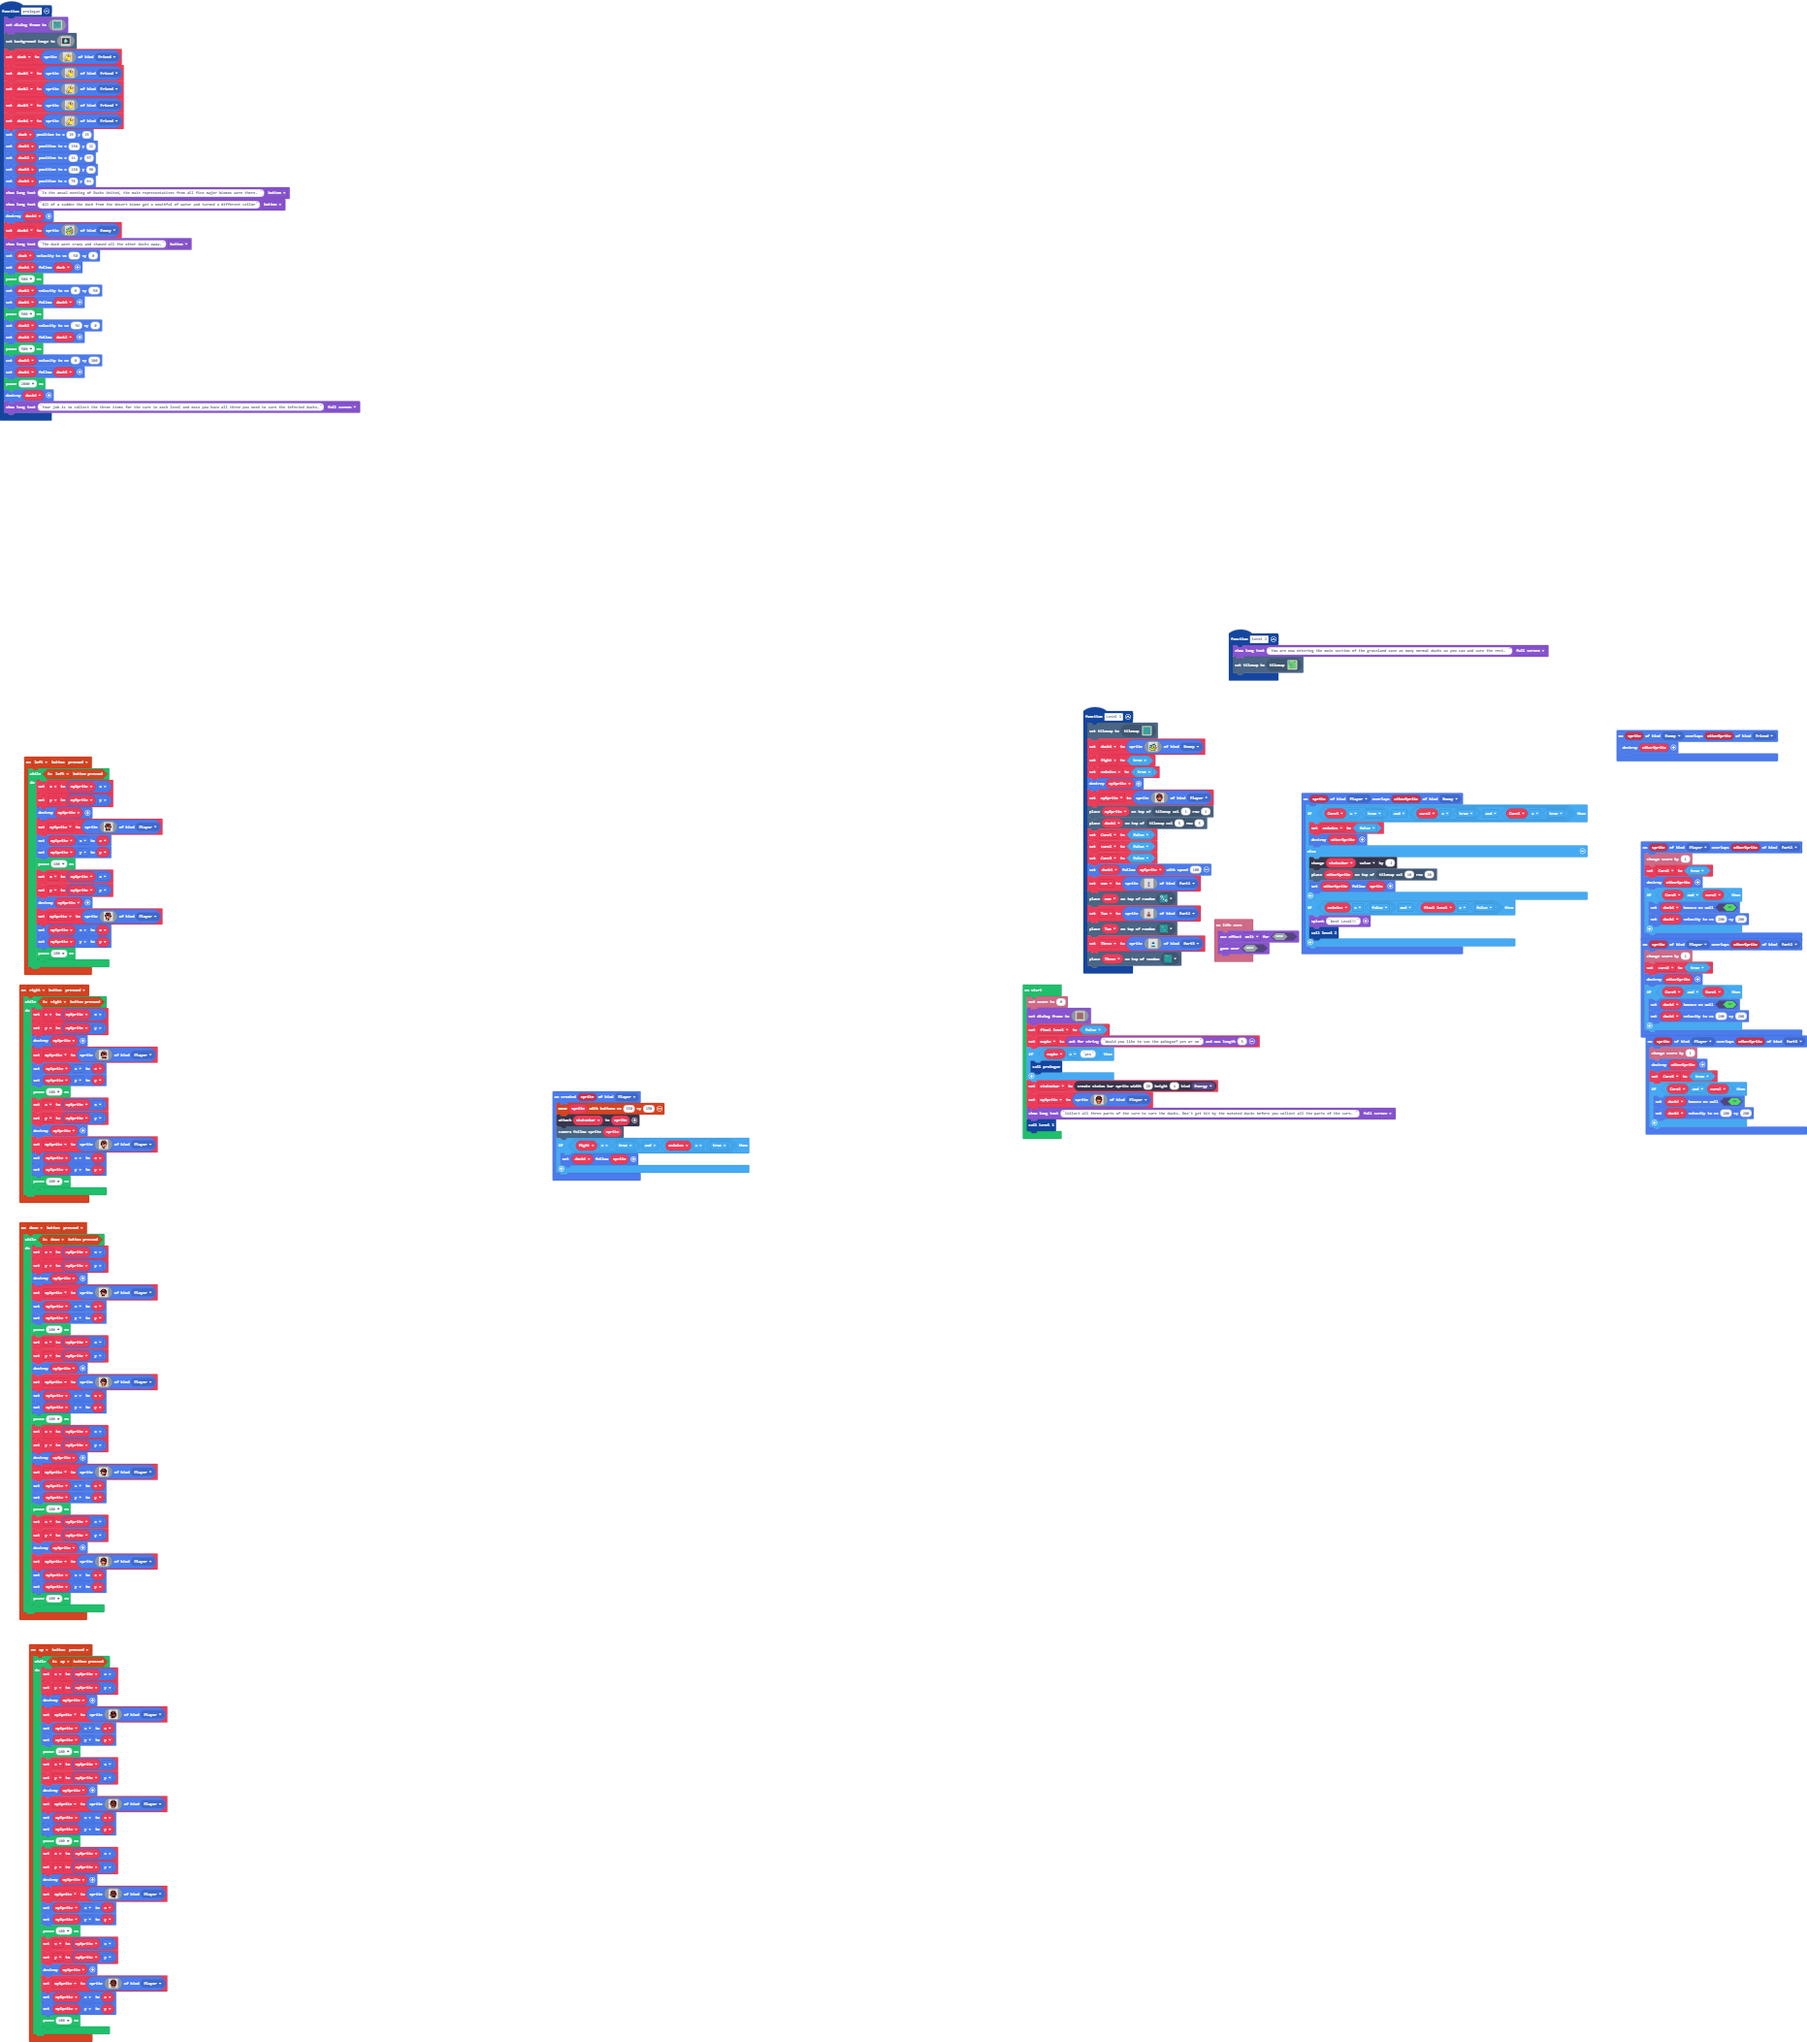
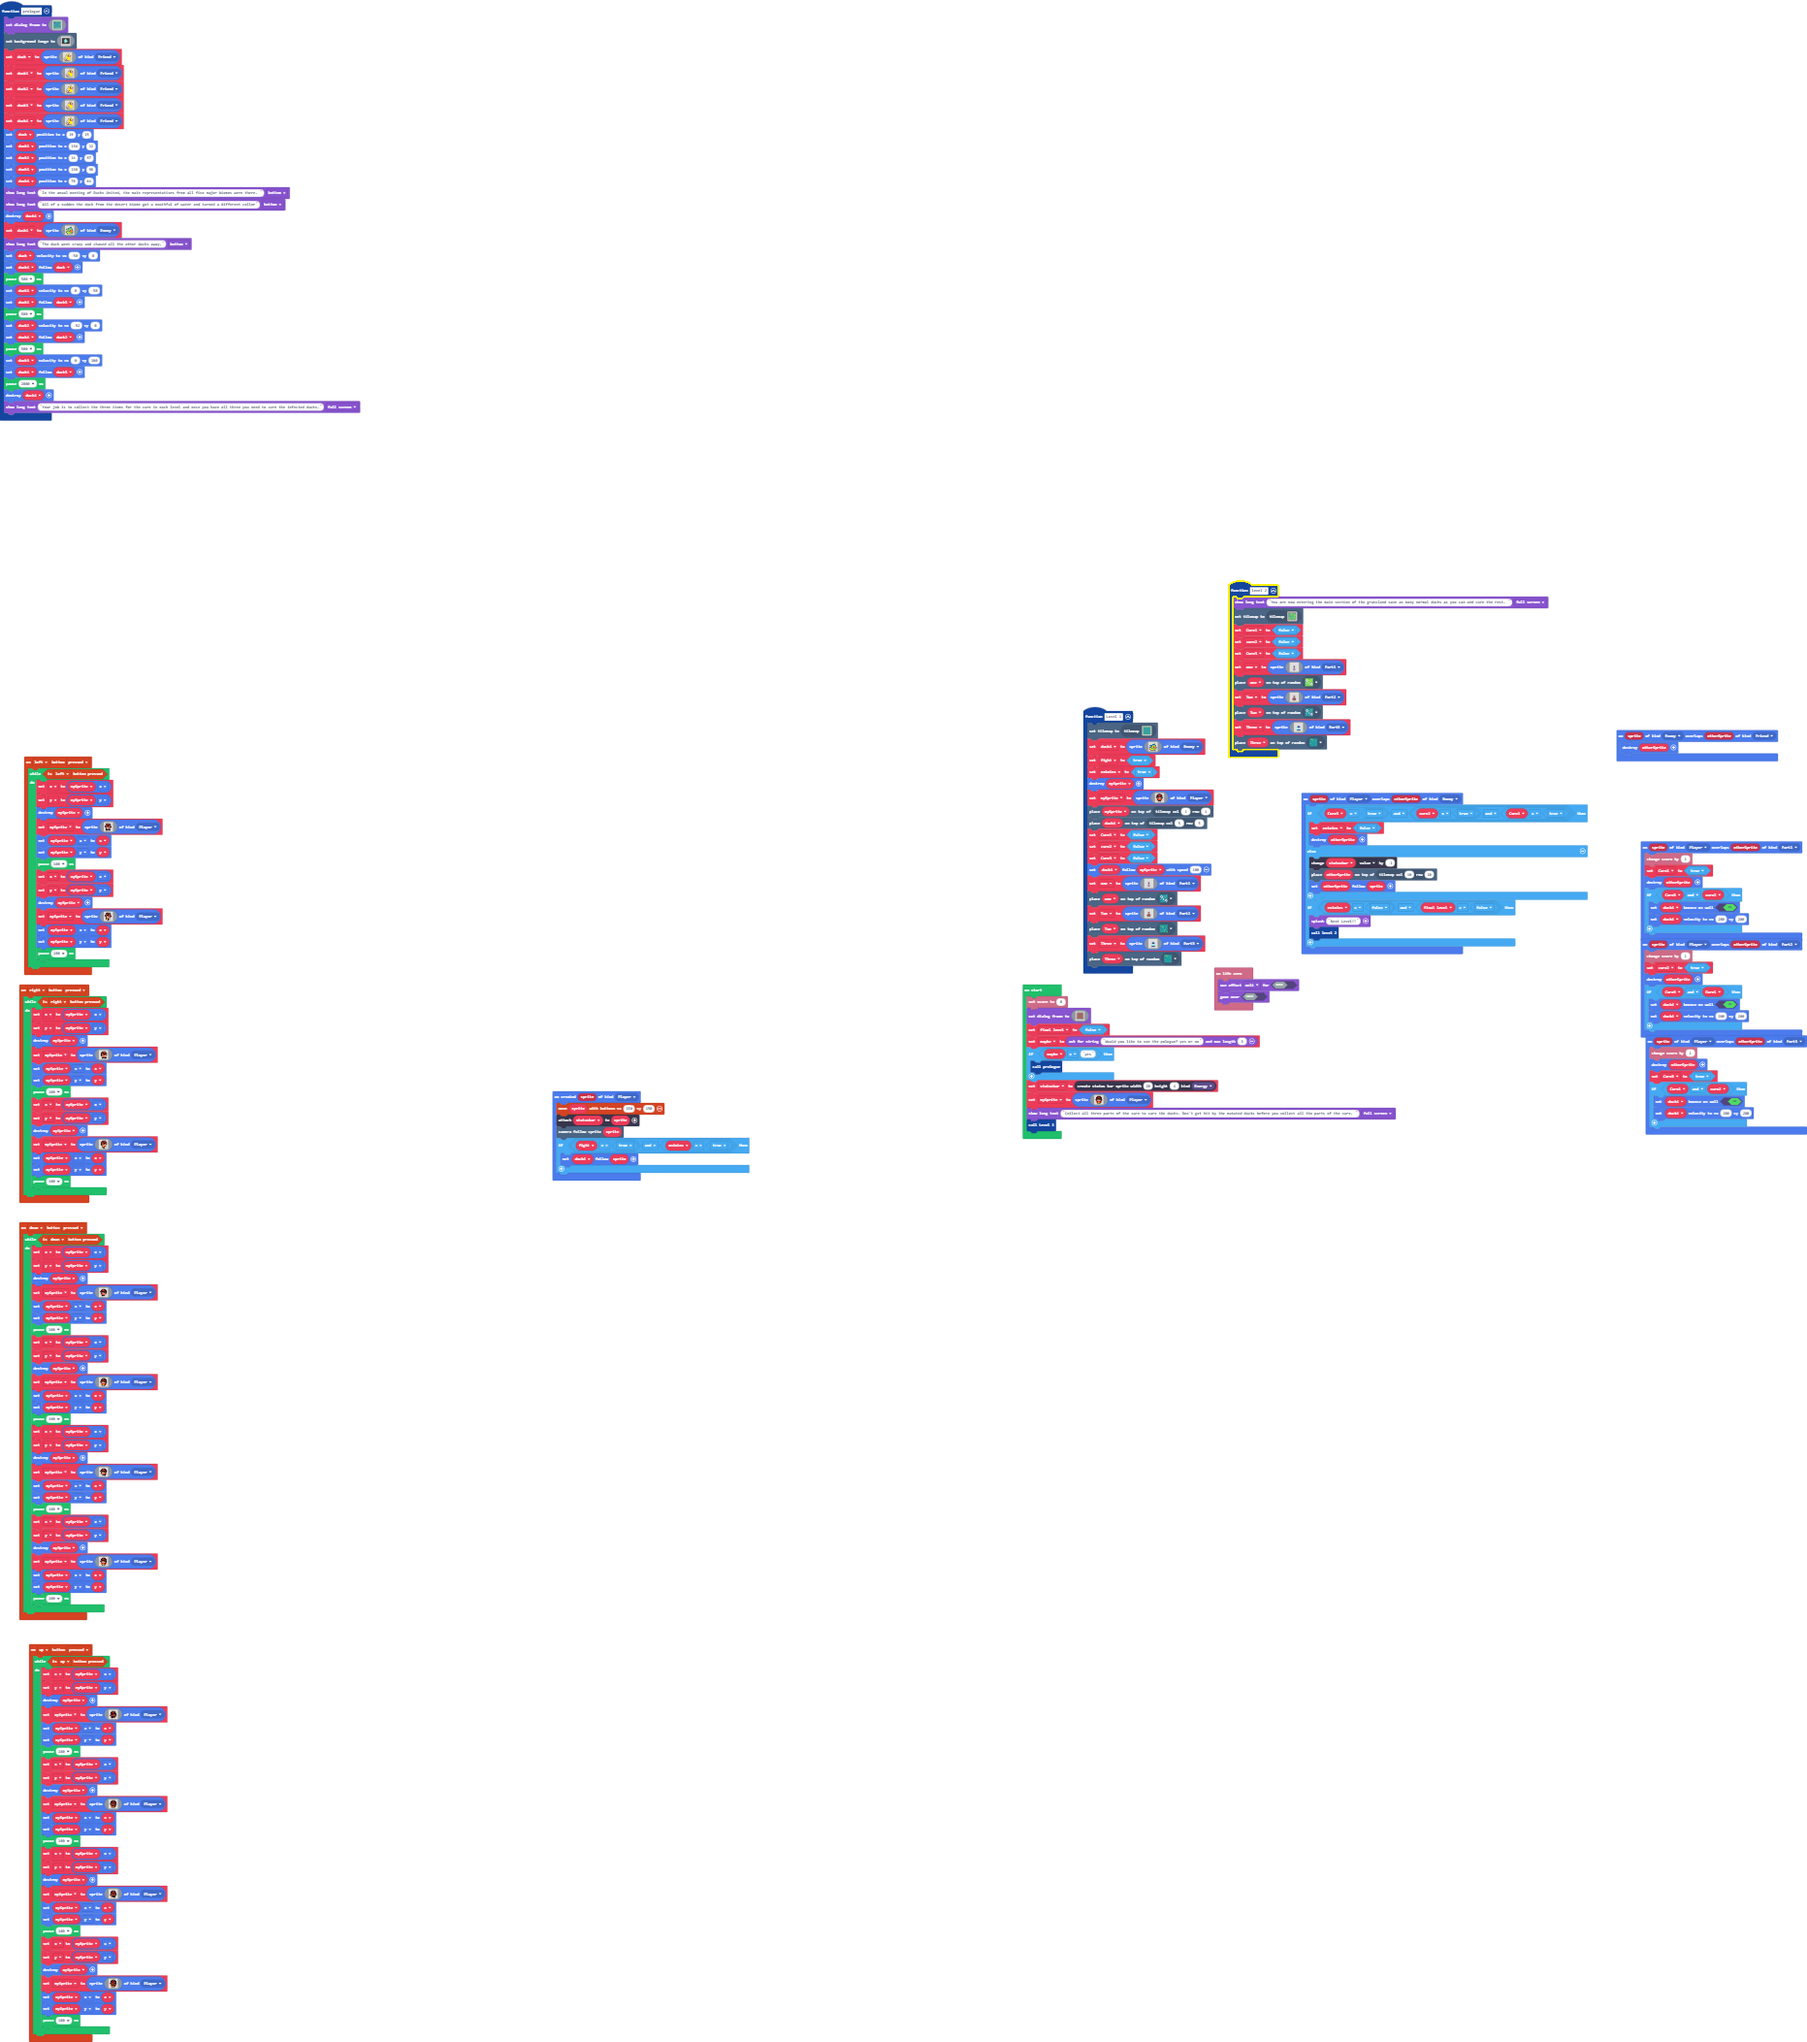
Update main.blocks, main.ts

Changed region(s): [[0.6538, 0.2779, 0.8717, 0.3705], [0.6538, 0.4323, 0.716, 0.4941]]

diff --git a/main.ts b/main.ts
@@ -159,6 +159,78 @@ controller.left.onEvent(ControllerButtonEvent.Pressed, function () {
 function level_2 () {
     game.showLongText("You are now entering the main section of the grassland save as many normal ducks as you can and cure the rest. ", DialogLayout.Full)
     tiles.setCurrentTilemap(tilemap`level8`)
+    Cure1 = false
+    cure2 = false
+    Cure3 = false
+    one = sprites.create(img`
+        ....................
+        ....................
+        ....................
+        ....................
+        ....................
+        ....................
+        .........bb.........
+        ........cccc........
+        ........cccc........
+        .........ff.........
+        .........bf.........
+        .........bb.........
+        ........bbbb........
+        .......bbbbbb.......
+        .......bbbbbb.......
+        .......bbbbbb.......
+        .......bbbbbc.......
+        ........cccc........
+        ....................
+        ....................
+        `, SpriteKind.Part1)
+    tiles.placeOnRandomTile(one, sprites.castle.tileGrass2)
+    Two = sprites.create(img`
+        ....................
+        ....................
+        ....................
+        ....................
+        ....................
+        ....................
+        ........4eee........
+        .......eeeeee.......
+        .........cc.........
+        .........ec.........
+        ........eeee........
+        .......ee4eee.......
+        ......ee4eeeee......
+        .....ee4eeeeeee.....
+        .....eeeeeeeeee.....
+        .....eeeeeeeecc.....
+        ......eeeeeecc......
+        .......eccccc.......
+        ....................
+        ....................
+        `, SpriteKind.Part2)
+    tiles.placeOnRandomTile(Two, sprites.castle.tileDarkGrass2)
+    Three = sprites.create(img`
+        ....................
+        ....................
+        ....................
+        ....................
+        ....................
+        ....................
+        .........888........
+        .........888........
+        ......888888888.....
+        ........fffff.......
+        .......9999999......
+        .......9999999......
+        .......9999999......
+        .......9999999......
+        .......9999999......
+        .......9999999......
+        ......888888888.....
+        ......fffffffff.....
+        ....................
+        ....................
+        `, SpriteKind.Part3)
+    tiles.placeOnRandomTile(Three, sprites.castle.tileDarkGrass3)
 }
 sprites.onOverlap(SpriteKind.Player, SpriteKind.Part2, function (sprite, otherSprite) {
     info.changeScoreBy(1)
@@ -779,15 +851,15 @@ let duck3: Sprite = null
 let duck2: Sprite = null
 let duck1: Sprite = null
 let duck: Sprite = null
-let Three: Sprite = null
-let Two: Sprite = null
-let one: Sprite = null
 let enimies = false
 let fight = false
 let duck4: Sprite = null
-let Cure1 = false
+let Three: Sprite = null
+let Two: Sprite = null
+let one: Sprite = null
 let Cure3 = false
 let cure2 = false
+let Cure1 = false
 let y = 0
 let x = 0
 let mySprite: Sprite = null
